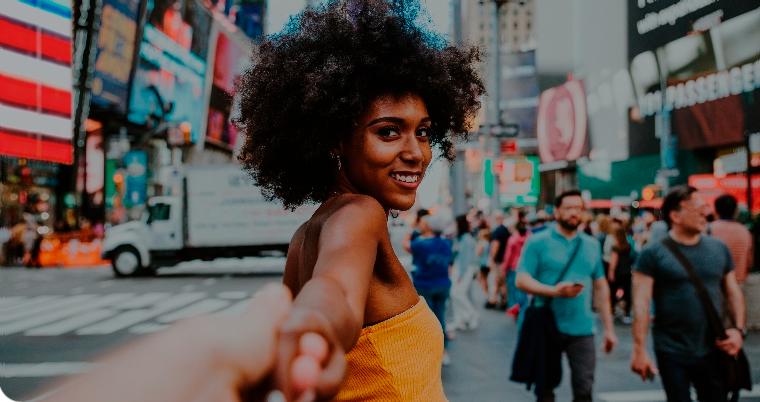
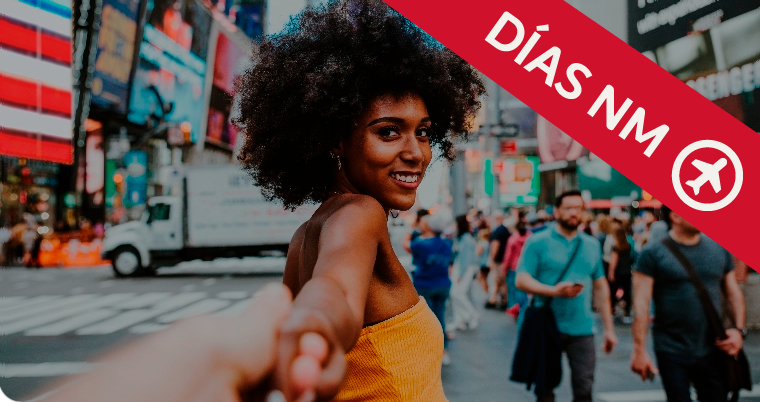
Imagenes por días NM

Changed region(s): [[0.4842, 0.0, 1.0, 0.6866]]

diff --git a/src/environments/environment.ts b/src/environments/environment.ts
@@ -33,7 +33,8 @@ export const environment = {
   urlZonaPrivada: 'https://servicio.nmviajes.com:9443/zonaprivada/',
   //urlGeo: "https://motorvuelos-dev.expertiatravel.com/mv",
   urlGeo: "https://motorvuelos.expertiatravel.com/mv",
-  urlIframeMotorVuelos: "https://vuelos-dev.nmviajes.com/#/nmviajes/search/resultados",
+  //urlIframeMotorVuelos: "https://vuelos-dev.nmviajes.com/#/nmviajes/search/resultados",
+  urlIframeMotorVuelos: "https://motorwl-dev.expertiatravel.com/#/nmviajes/search/resultados",
   //urlIframeMotorVuelos: "http://localhost:4200/#/nmviajes/search/resultados",
 
   urlIframeMotorVuelosItinerary: "https://vuelos.nmviajes.com/#/nmviajes/booking/itinerary",

diff --git a/src/app/shared/components/tabs/tabs.component.html b/src/app/shared/components/tabs/tabs.component.html
@@ -1,6 +1,7 @@
 <div class="banner" [ngClass]="show ? 'bannerHide' : ' ' ">
   <div class="content" [ngClass]="show ? 'd-none' : ' ' ">
-    <img src="./assets/banner/nmviajes-cover.webp">
+    <!-- <img src="./assets/banner/nmviajes-cover.webp"> -->
+    <img src="./assets/banner/nmviajes-covere Dias nm.jpg">
   </div>
   <article class="container-fluid margin-filter-">
     <div class="row">
